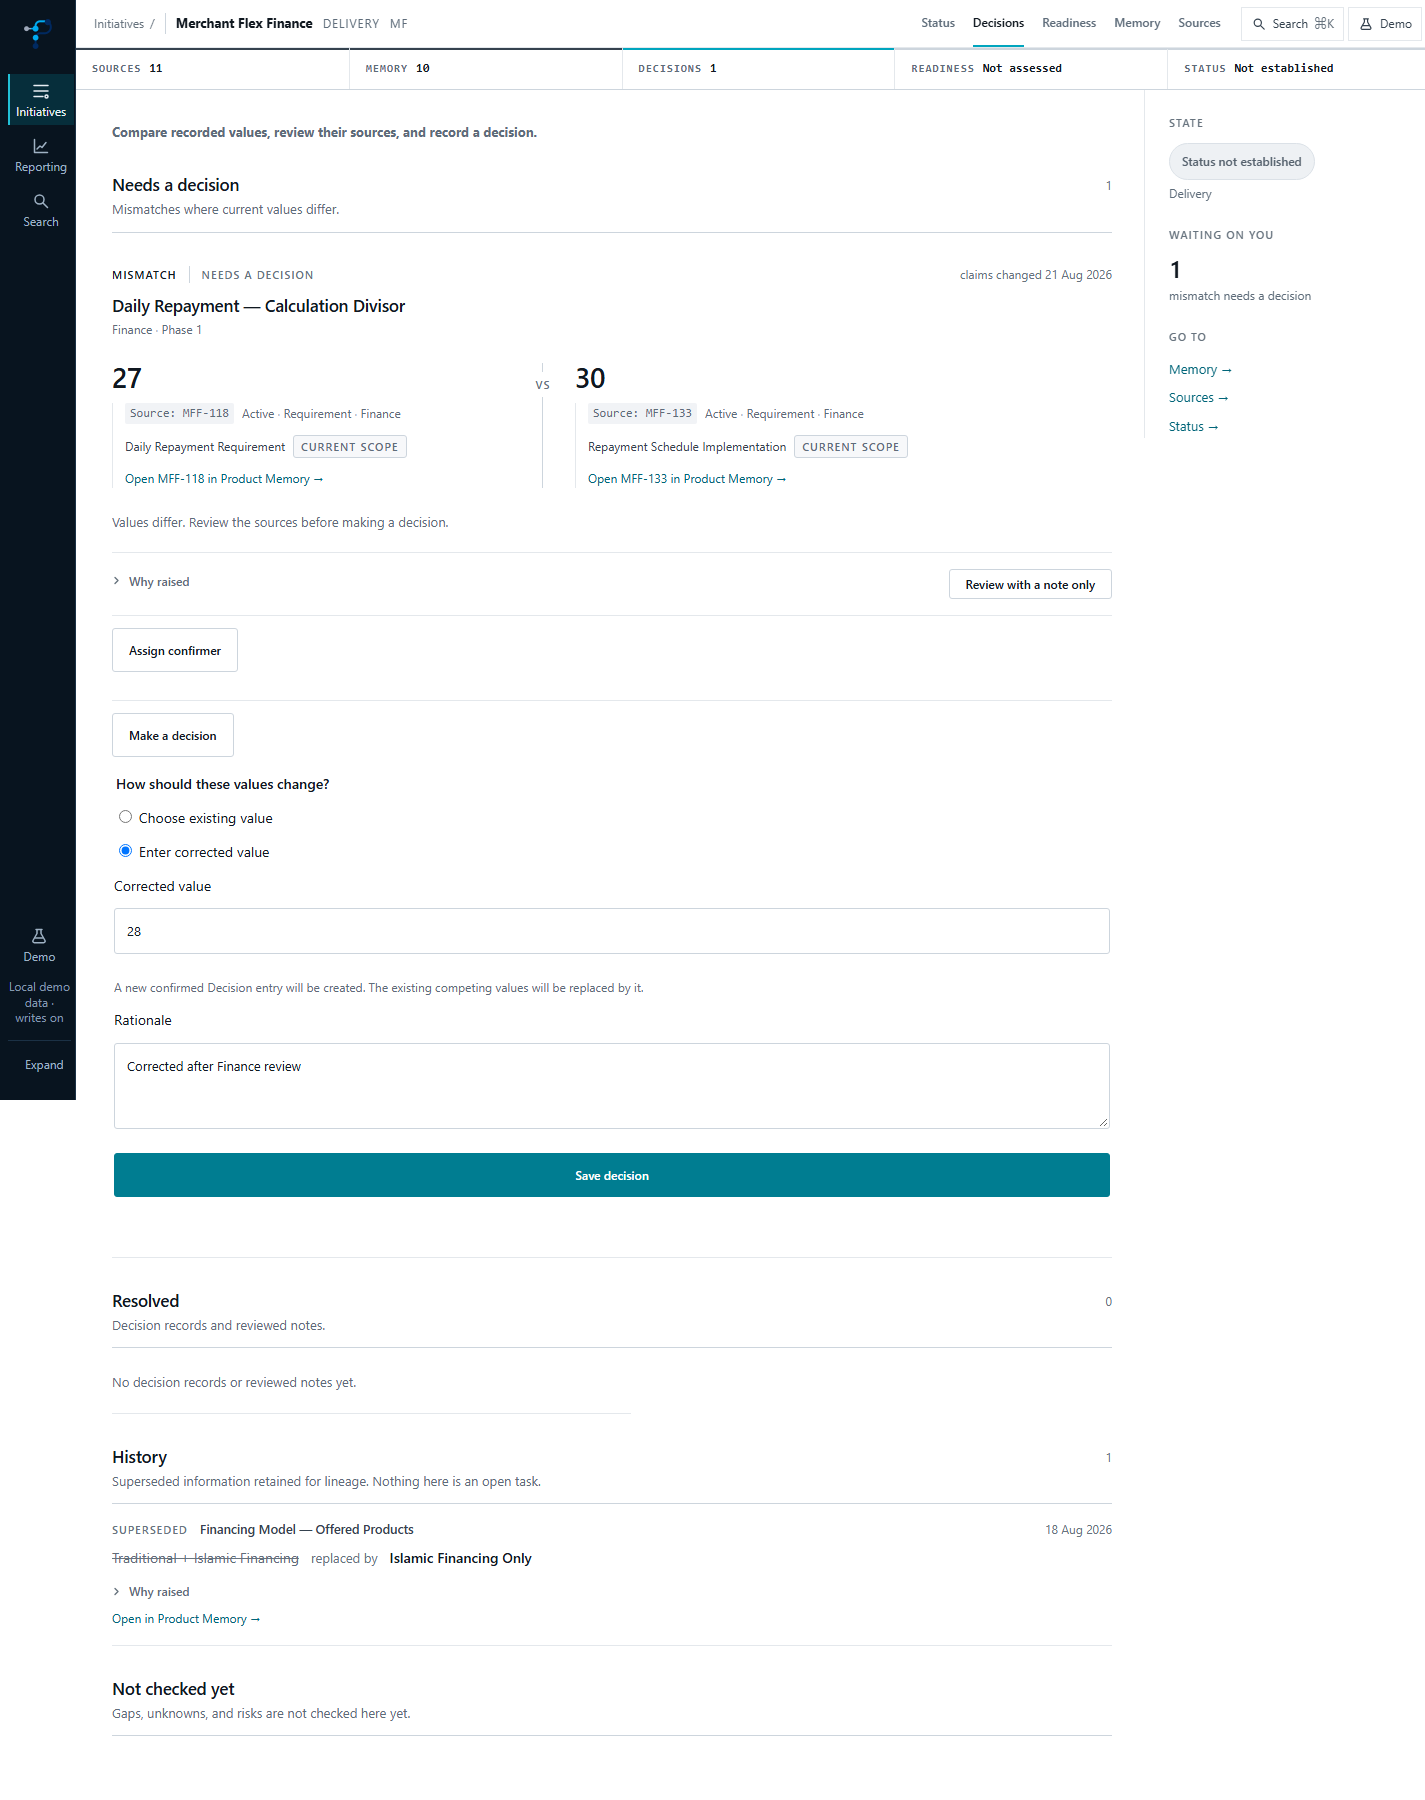
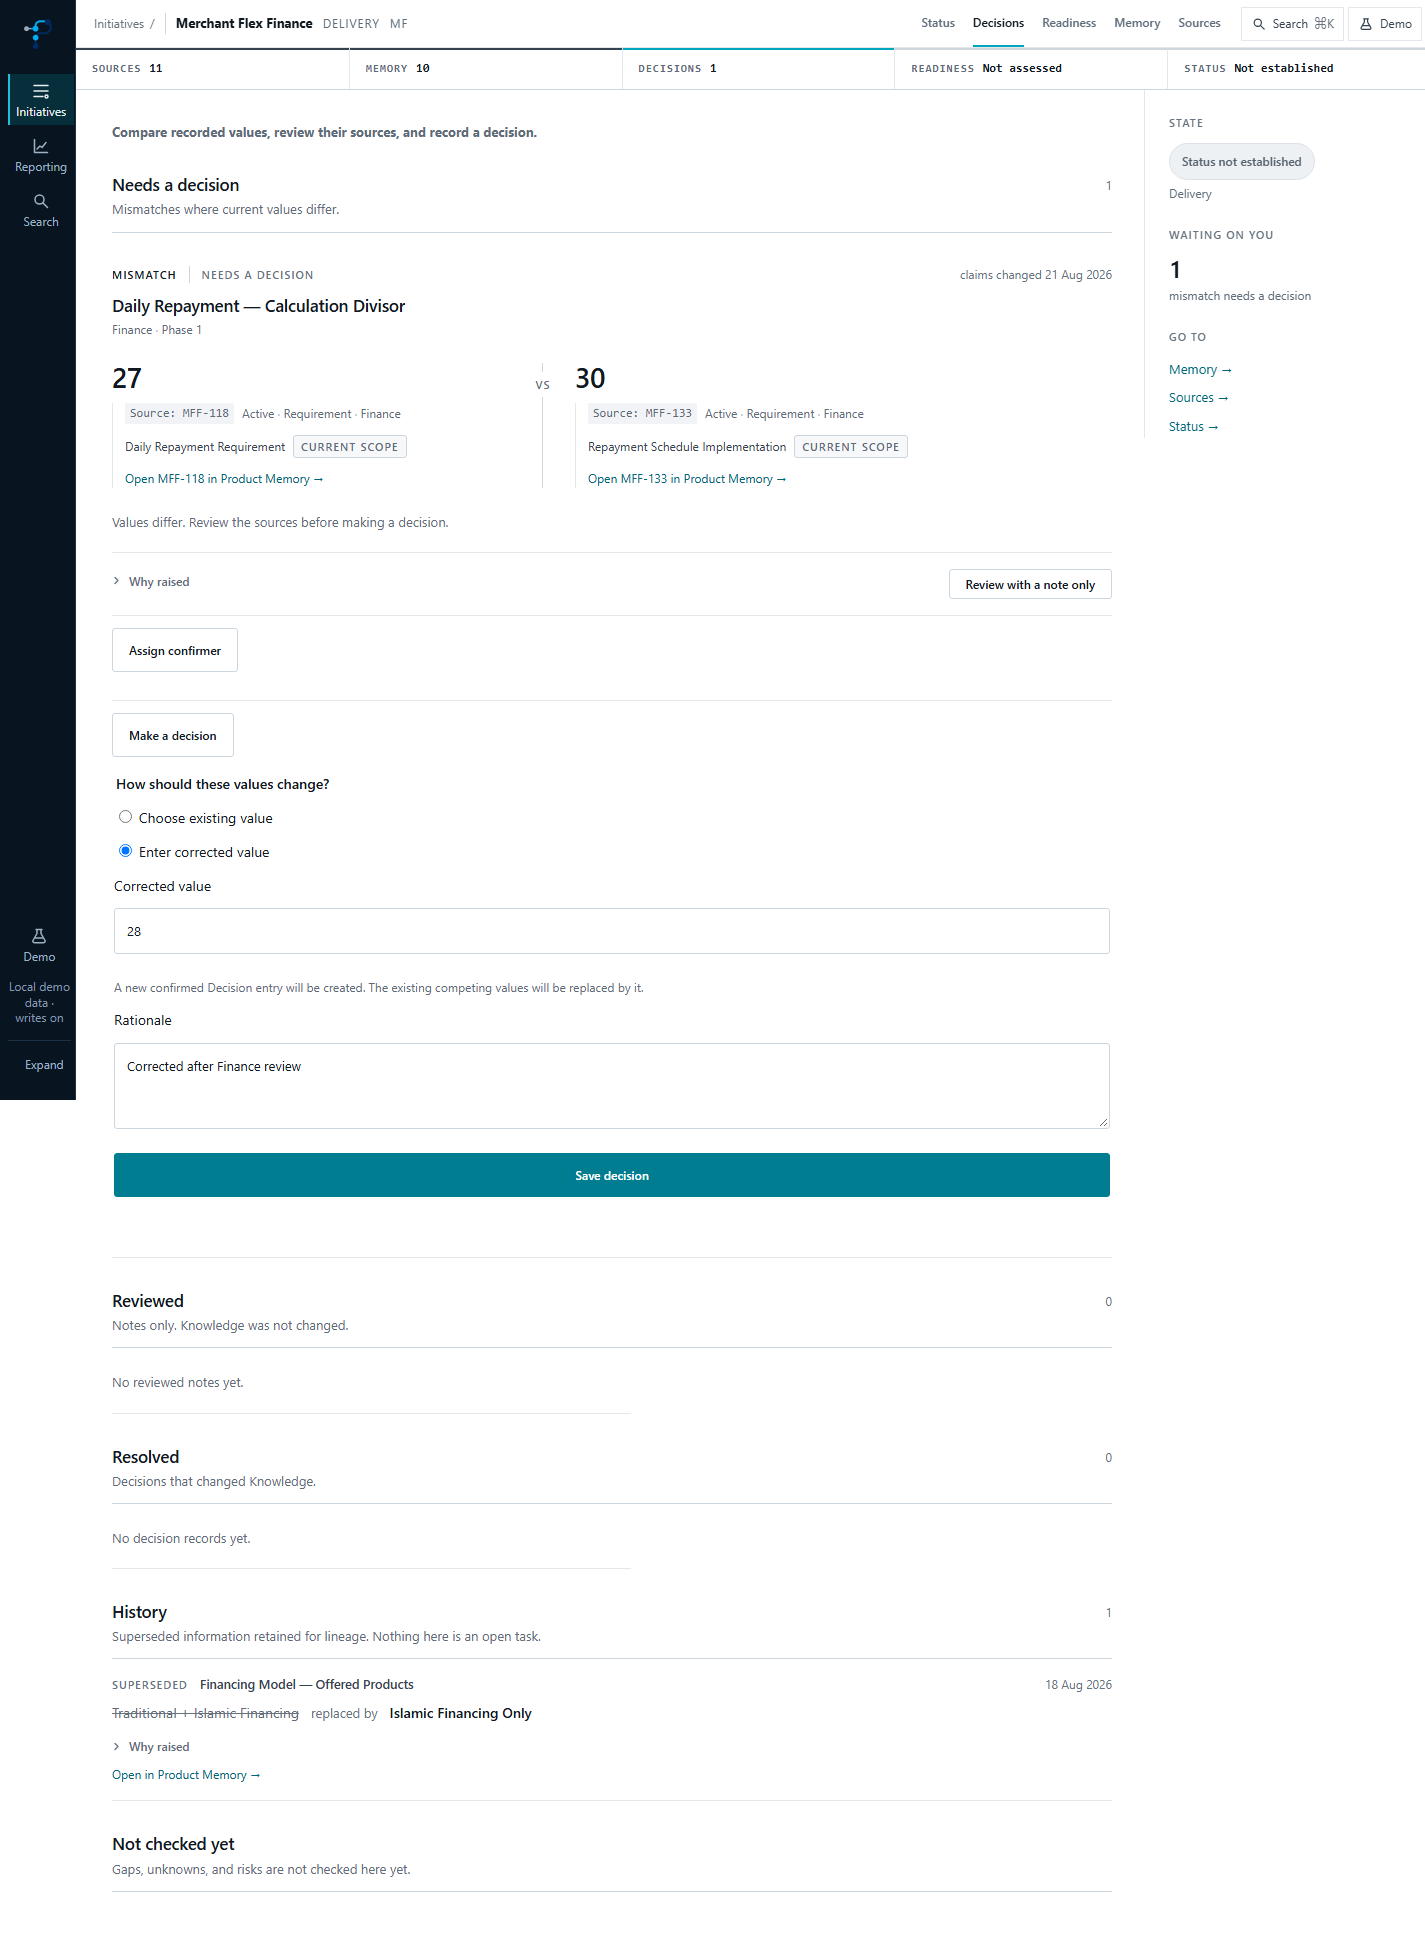
Fix Stage 2.2B reviewed lane and preserve refused decision inputs

diff --git a/src/app/initiatives/[slug]/decisions/page.tsx b/src/app/initiatives/[slug]/decisions/page.tsx
@@ -37,16 +37,17 @@ export default async function DecisionsPage({
      visitor takes. */
   const { claims, findings: all, states } = await loadDecisions(initiative.id);
 
-  /* These lanes partition the already-derived result. They add no state and
-     assign no new meaning: supersessions remain history, while Resolved reads
-     the existing pre-Stage-2 finding-state records exactly as before. */
+  /* Presentation only: note-only reviews are separate from decisions that
+     changed Knowledge. The existing engine still determines actionability. */
   const needsDecision = all
     .filter((finding) => finding.status === "OPEN" && finding.actionable)
     .sort(compareFindings);
-  const resolved = all
+  const reviewed = all
     .filter(
       (finding) =>
-        finding.status === "RESOLVED" && finding.type !== "SUPERSEDED",
+        finding.status === "RESOLVED" && finding.type !== "SUPERSEDED" &&
+        states.some((state) => state.fingerprint === finding.fingerprint &&
+          state.status === "RESOLVED" && state.outcome === null),
     )
     .sort(compareFindings);
   const history = all
@@ -107,20 +108,19 @@ export default async function DecisionsPage({
           )}
         </section>
 
-        <section className={styles.decisionLane} id="lane-resolved">
+        <section className={styles.decisionLane} id="lane-reviewed">
           <div className={styles.decisionLaneHead}>
             <div>
-              <h2 className={styles.decisionLaneTitle}>Resolved</h2>
+              <h2 className={styles.decisionLaneTitle}>Reviewed</h2>
               <p className={styles.decisionLaneDescription}>
-                Decision records and reviewed notes.
+                Notes only. Knowledge was not changed.
               </p>
             </div>
-            <span className={styles.decisionLaneCount}>{resolved.length + standing.length}</span>
+            <span className={styles.decisionLaneCount}>{reviewed.length}</span>
           </div>
-          {resolved.length + standing.length > 0 ? (
+          {reviewed.length > 0 ? (
             <ul>
-              {standing.map((state) => <DecisionRecord key={state.fingerprint} state={state} slug={slug} />)}
-              {resolved.map((finding) => (
+              {reviewed.map((finding) => (
                 <FindingRow
                   key={finding.fingerprint}
                   finding={finding}
@@ -131,7 +131,24 @@ export default async function DecisionsPage({
               ))}
             </ul>
           ) : (
-            <p className={styles.decisionLaneEmpty}>No decision records or reviewed notes yet.</p>
+            <p className={styles.decisionLaneEmpty}>No reviewed notes yet.</p>
+          )}
+        </section>
+
+        <section className={styles.decisionLane} id="lane-resolved">
+          <div className={styles.decisionLaneHead}>
+            <div>
+              <h2 className={styles.decisionLaneTitle}>Resolved</h2>
+              <p className={styles.decisionLaneDescription}>Decisions that changed Knowledge.</p>
+            </div>
+            <span className={styles.decisionLaneCount}>{standing.length}</span>
+          </div>
+          {standing.length > 0 ? (
+            <ul>
+              {standing.map((state) => <DecisionRecord key={state.fingerprint} state={state} slug={slug} />)}
+            </ul>
+          ) : (
+            <p className={styles.decisionLaneEmpty}>No decision records yet.</p>
           )}
         </section>
 

diff --git a/src/components/initiative/DecideConflictForm.tsx b/src/components/initiative/DecideConflictForm.tsx
@@ -23,7 +23,12 @@ export function DecideConflictForm({ finding, slug }: { finding: ReviewFinding; 
   const duplicate = choice === "corrected" && values.some((c) => normalise(c.value) === normalise(corrected));
   return <details className={styles.decisionForm}>
     <summary className={styles.resolveTrigger}>Make a decision</summary>
-    <form action={action} onSubmit={(event) => { if (duplicate) event.preventDefault(); }}>
+    <form action={action}
+      // React resets action forms even when the action returns a refusal.
+      // Cancel the native reset so selects/radios retain their controlled values
+      // alongside text inputs. Successful decisions disappear via revalidation.
+      onReset={(event) => event.preventDefault()}
+      onSubmit={(event) => { if (duplicate) event.preventDefault(); }}>
       <input type="hidden" name="slug" value={slug} />
       <input type="hidden" name="fingerprint" value={finding.fingerprint} />
       <input type="hidden" name="contentDigest" value={finding.contentDigest} />

diff --git a/docs/ui-review/stage2-2/README.md b/docs/ui-review/stage2-2/README.md
@@ -4,6 +4,10 @@ Implemented on `stage2-2-decision-truth`, based on approved Stage 2.2A commit
 `d1c8954270941216f822f8832c31be05397dd021`. No review-engine, migration, repository
 mutation semantics, navigation structure, or dependencies were changed.
 
+Audit remediation is based on `c896e8c39c979d6891258c9971f2f3e1ce60cd3a`.
+It changes only lane presentation, decision-form reset behavior, focused browser
+coverage, and this screenshot/report package.
+
 ## Behavior
 
 - Actionable mismatches show values, source summaries, and the current
@@ -20,10 +24,15 @@ mutation semantics, navigation structure, or dependencies were changed.
   revalidate the initiative layout; the server reloads persisted data and runs
   the existing engine. No optimistic engine state is stored in the client.
 - Legacy notes say **Reviewed — note only** and **Knowledge was not changed**.
+  They live exclusively in **Reviewed**, between Needs a decision and Resolved.
+  Resolved counts only actual Decision Truth outcomes; re-emerged mismatches
+  return to Needs a decision with their previous-decision disclosure.
   Their confirmer is hidden while resolved. Real decisions never expose note
   or reopen controls; repository refusals remain enforced for direct calls.
 - Named refusals map to safe copy. Unknown exceptions never expose RPC/SQL text.
-  Controlled decision inputs survive errors. Disabled writes hide forms and
+  The decision form cancels React's native reset, preserving decision mode,
+  selected value, corrected value, domain, and rationale on refusals. Success
+  still depends on persistence and revalidation. Disabled writes hide forms and
   are checked again by the server action boundary and existing repository.
 
 ## Reproducible gate
@@ -56,9 +65,9 @@ render token; controlled input preservation is checked in the browser.
 | B5 standing decision | No assignment or decision controls after persistence/reload |
 | B6 corrected value | Actual submission creates one HUMAN_DECISION entry for 28 |
 | B7 duplicate correction | Normalized full-width 27 with punctuation refused; choose-existing redirect; server unit test |
-| B8 previous decision | Disclosure shows value, rationale, confirmed-with snapshot, and timestamp |
-| B9 legacy note | Label, unchanged-Knowledge explanation, hidden confirmer |
-| B10 stale | Safe error plus preserved rationale; no stored decision |
+| B8 previous decision | Explicit browser assertions for prior value, rationale, confirmed-with snapshot, exact formatted persisted timestamp, and Values differ again; current mismatch in Needs a decision, absent from Resolved |
+| B9 legacy note | Item, label, and unchanged-Knowledge explanation inside lane-reviewed; absent from lane-resolved; hidden confirmer; exact lane order |
+| B10 refusals | Both modes retain all applicable inputs, including existing-value and domain selects; inactive-mode inputs survive mode changes; stale and actual server RATIONALE_REQUIRED refusals; whole store unchanged |
 | B11 disabled writes | Browser has no forms; direct boundary tests refuse both mutation types; existing Preview guard regression |
 | B12 persisted refresh | Open lane disappears after actual mutation; record survives reload; Memory markers and store checked |
 
@@ -81,6 +90,13 @@ overflow was detected.
 | [08 mobile](08-reemerged-mobile.png) | Re-emerged decision at 390px |
 | [09 legacy](09-legacy-note.png) | Decisions, reviewed note only |
 | [10 read-only](10-write-disabled.png) | Decisions with `DEMO_WRITE_ENABLED=false` |
+| [11 existing stale mobile](11-stale-existing-mobile.png) | Selected existing value and rationale retained after stale refusal |
+| [12 Resolved mobile](12-resolved-mobile.png) | Real decision in Resolved, Reviewed empty |
+| [13 corrected stale desktop](13-stale-corrected-desktop.png) | Corrected value, domain, mode and rationale retained |
+| [14 corrected stale mobile](14-stale-corrected-mobile.png) | Same stale refusal on mobile |
+| [15 server refusal desktop](15-server-refusal-desktop.png) | Actual domain RATIONALE_REQUIRED refusal preserves mixed-domain form |
+| [16 server refusal mobile](16-server-refusal-mobile.png) | Same server refusal on mobile |
+| [17 Reviewed mobile](17-reviewed-mobile.png) | Legacy note in Reviewed; absent from Resolved |
 
 ## Scope and limitations
 
@@ -98,12 +114,9 @@ decision races, committed rollback/reapply, Stage 2.1 SQL and concurrency on
 0008/0009, browser scenarios B1–B12, typecheck, lint, and build. The golden
 fingerprint remains f2f628a25ea8bcf38ef8db92896bbcc1f61b20e159c3d7635ed85c98dd84f5ca.
 
-The initial final-gate launcher selected Windows PowerShell 5; that run failed
-in the note-race harness. The launcher now explicitly requires the installed
-PowerShell 7 runtime used by the approved SQL harnesses. The full command was
-rerun successfully with that runtime. No gate was skipped.
+The remediation reruns the same complete final gate under PowerShell 7. No gate is skipped.
 
-## Changed files
+## Changed files in this remediation
 
 - docs/ui-review/stage2-2/01-actionable-desktop.png
 - docs/ui-review/stage2-2/02-stale-input-preserved.png
@@ -115,24 +128,15 @@ rerun successfully with that runtime. No gate was skipped.
 - docs/ui-review/stage2-2/08-reemerged-mobile.png
 - docs/ui-review/stage2-2/09-legacy-note.png
 - docs/ui-review/stage2-2/10-write-disabled.png
+- docs/ui-review/stage2-2/11-stale-existing-mobile.png
+- docs/ui-review/stage2-2/12-resolved-mobile.png
+- docs/ui-review/stage2-2/13-stale-corrected-desktop.png
+- docs/ui-review/stage2-2/14-stale-corrected-mobile.png
+- docs/ui-review/stage2-2/15-server-refusal-desktop.png
+- docs/ui-review/stage2-2/16-server-refusal-mobile.png
+- docs/ui-review/stage2-2/17-reviewed-mobile.png
 - docs/ui-review/stage2-2/README.md
-- package.json
-- README.md
-- scripts/db-test/run-stage2-2-final.ps1
 - scripts/ui-test/run.mjs
 - scripts/ui-test/seed.mjs
-- scripts/ui-test/server.mjs
-- src/app/initiatives/[slug]/decisions/actions.ts
 - src/app/initiatives/[slug]/decisions/page.tsx
-- src/app/initiatives/[slug]/memory/page.tsx
-- src/components/initiative/ClaimRow.tsx
 - src/components/initiative/DecideConflictForm.tsx
-- src/components/initiative/DecisionRecord.tsx
-- src/components/initiative/FindingRow.module.css
-- src/components/initiative/FindingRow.tsx
-- src/components/initiative/ResolveFindingForm.tsx
-- src/lib/decisions/submit.test.ts
-- src/lib/decisions/submit.ts
-- src/lib/decisions/ui.ts
-- src/lib/domain/labels.ts
-- src/lib/workspace/decisions.ts
